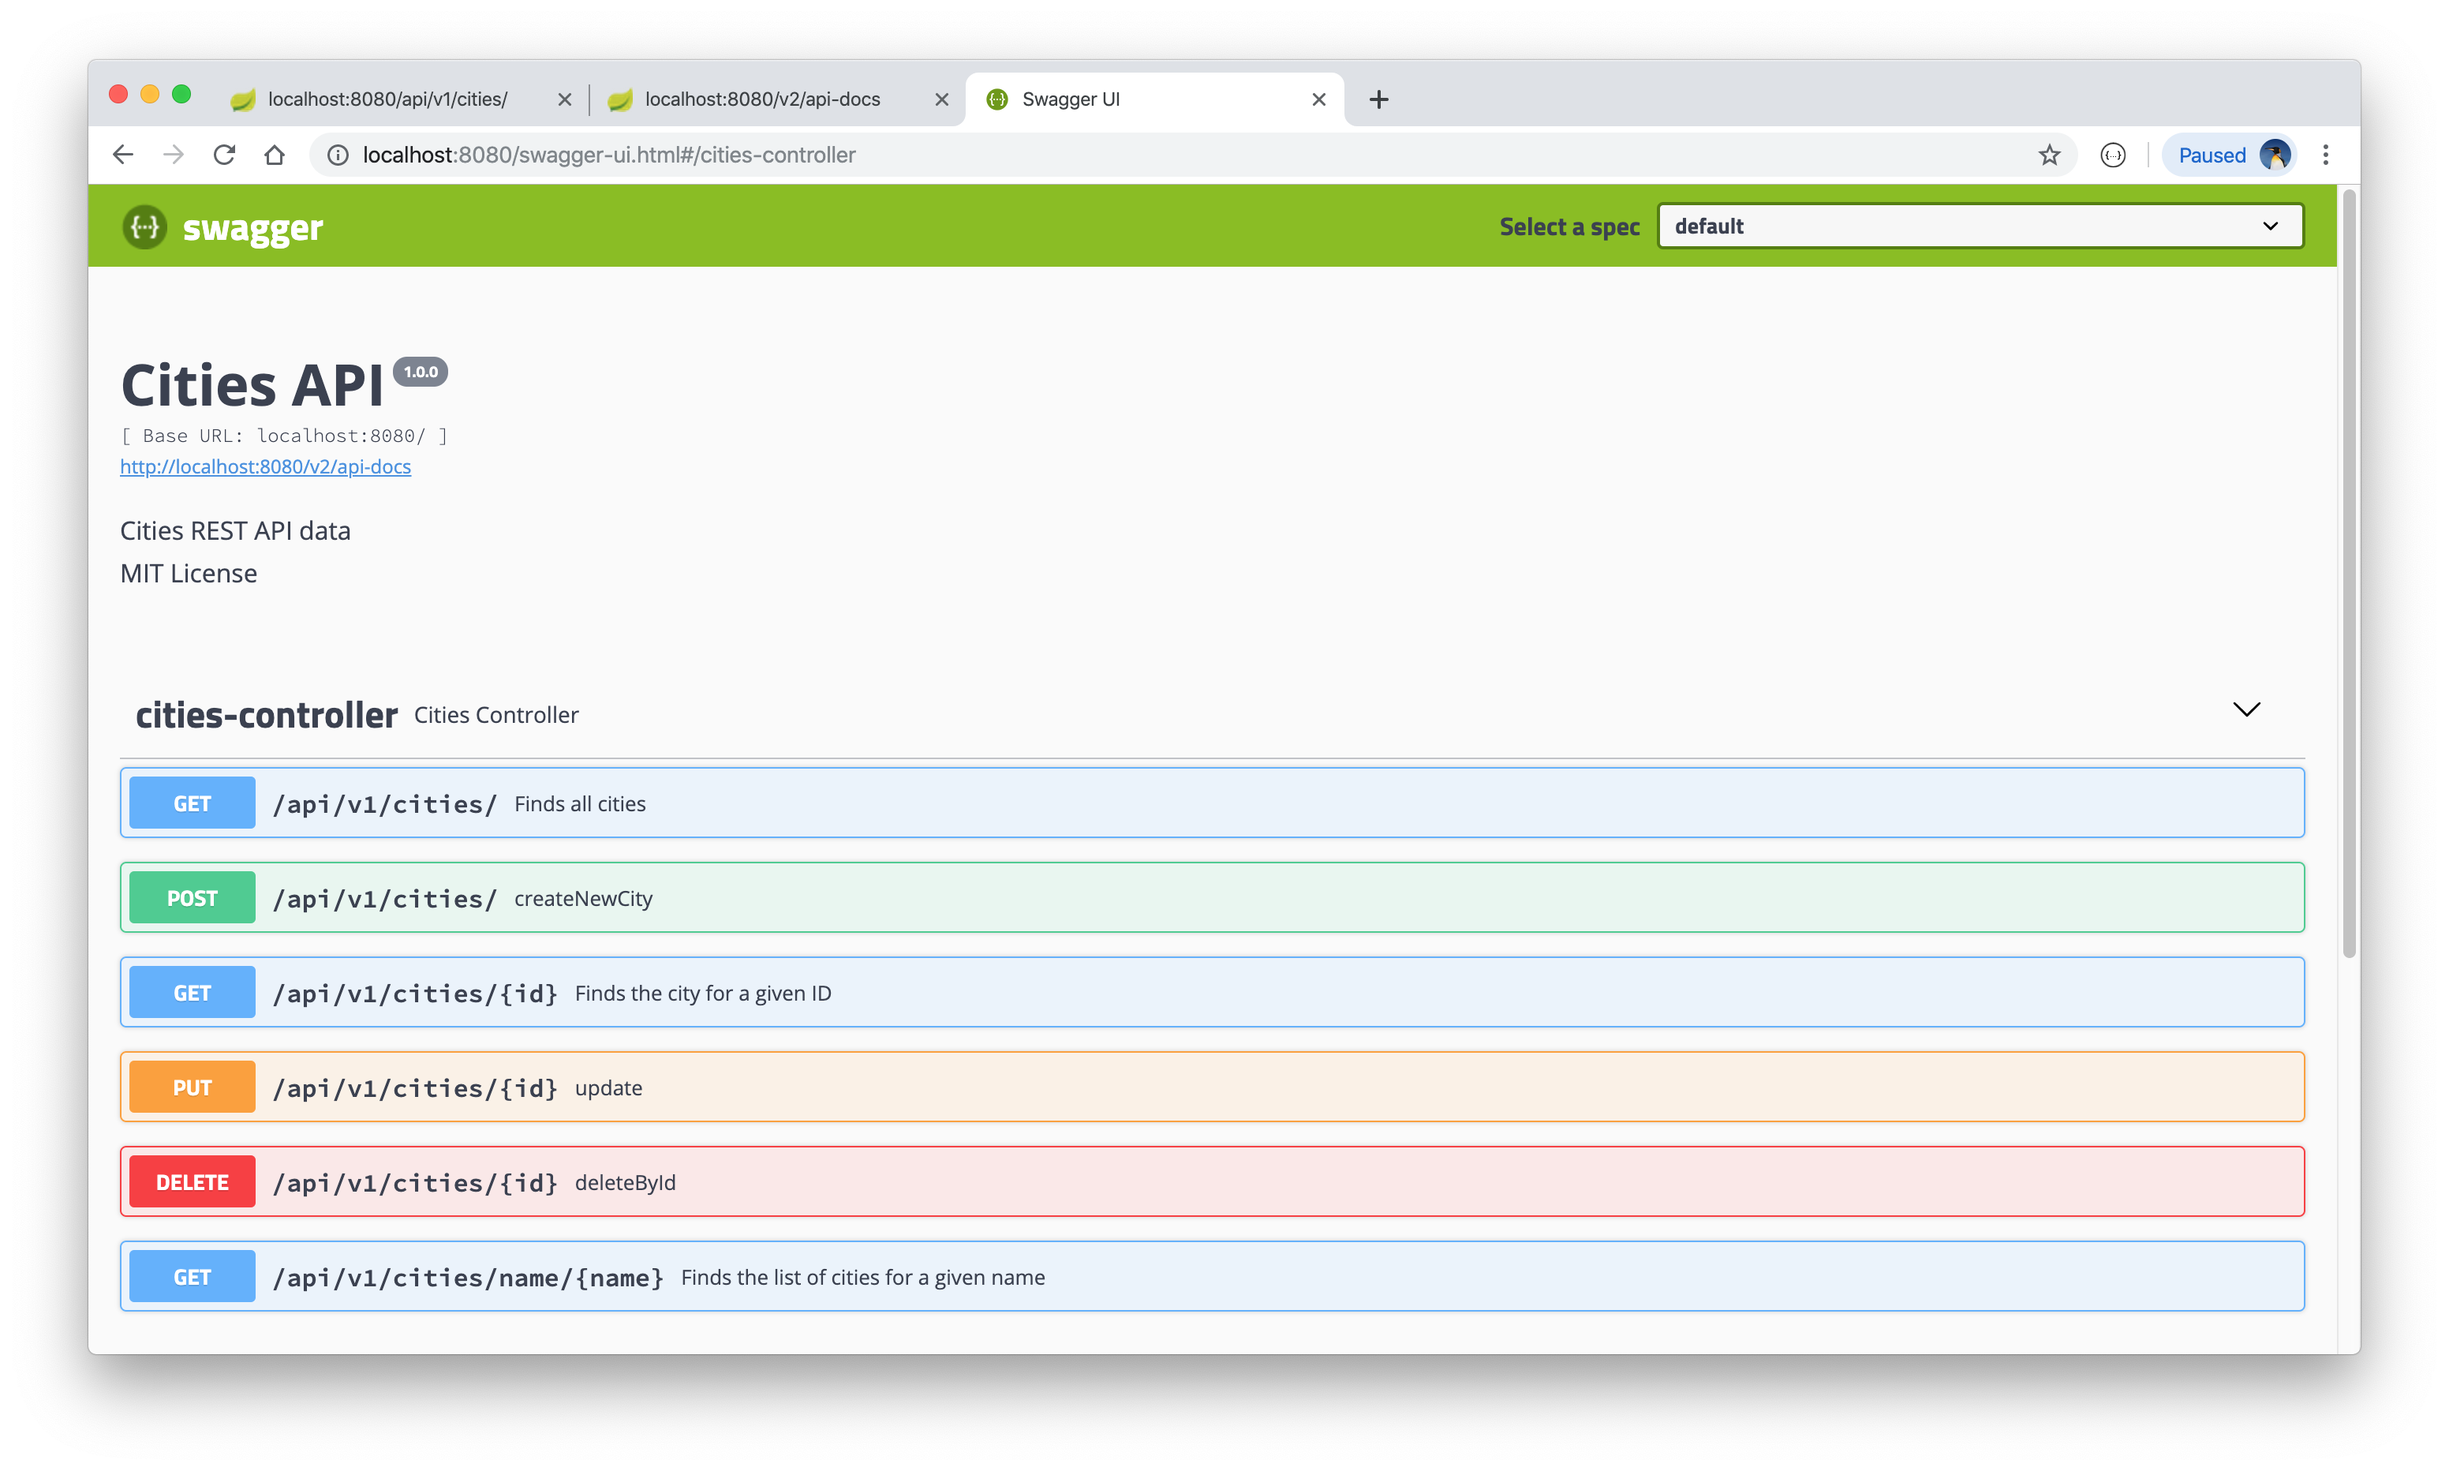
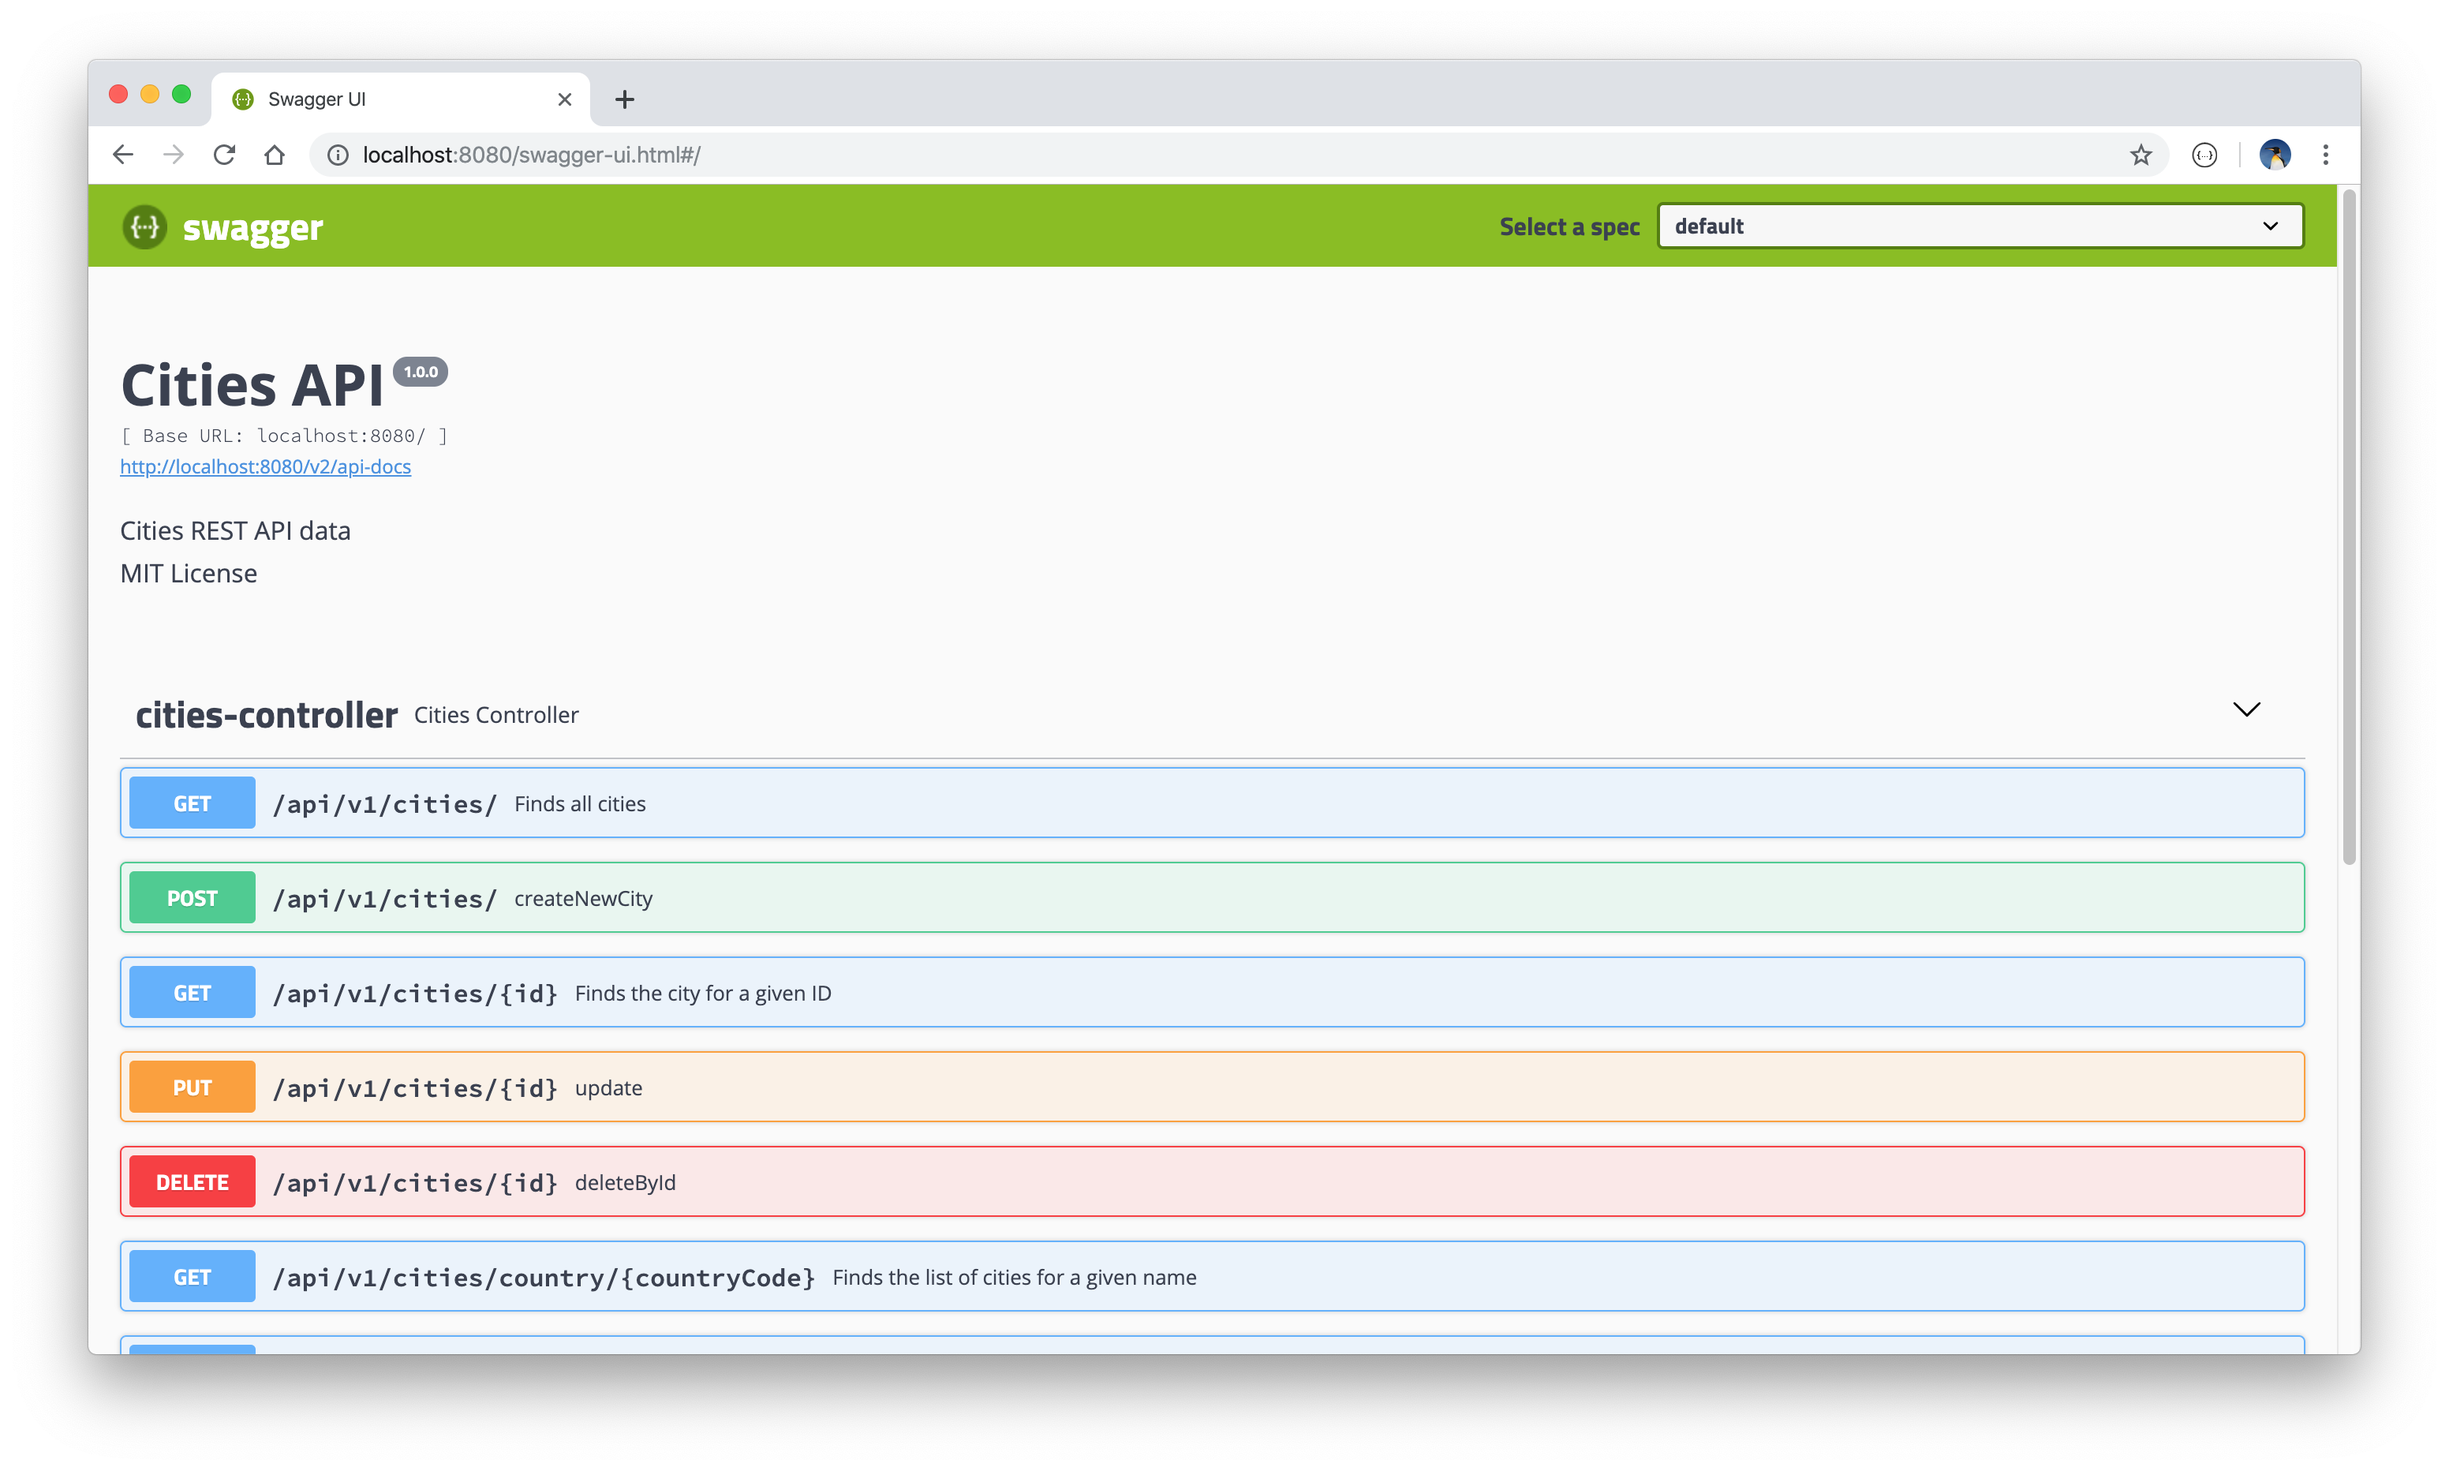
Additional GET called added

diff --git a/Cities API/src/main/java/com/cadebe/cities_api/controller/CitiesController.java b/Cities API/src/main/java/com/cadebe/cities_api/controller/CitiesController.java
@@ -59,8 +59,7 @@ public class CitiesController {
         UUID uuid = UUID.fromString(id);
         Optional<City> city = CITY_SERVICE.findById(uuid);
         if (city.isEmpty()) {
-            ErrorHandler<UUID> eh = new ErrorHandler<>();
-            eh.handelError(uuid);
+            handelError(uuid);
             return new ResponseEntity<>(generateErrorMessage("city.not.found") + ".", HttpStatus.NOT_FOUND);
         }
         return new ResponseEntity<>(city.get(), HttpStatus.OK);
@@ -72,8 +71,29 @@ public class CitiesController {
     public ResponseEntity<Object> findByName(@ApiParam(value = "Name value for city to be retrieved", required = true)
                                              @PathVariable("name") String name) {
         Optional<List<City>> city = CITY_SERVICE.findByName(name);
-        ErrorHandler<String> eh = new ErrorHandler<>();
-        eh.handelError(name);
+        handelError(name);
+        return city.<ResponseEntity<Object>>map(cities -> new ResponseEntity<>(cities, HttpStatus.OK)).orElseGet(() ->
+                new ResponseEntity<>(generateErrorMessage("city.not.found") + ".", HttpStatus.NOT_FOUND));
+    }
+
+    @RequestMapping(method = RequestMethod.GET, produces = MediaType.APPLICATION_JSON_VALUE, path = "country/{countryCode}")
+    @ExceptionHandler(value = CityNotFoundException.class)
+    @ApiOperation(value = "Finds the list of cities for a given country code", notes = "Returns a list of cities for a given country code", response = City.class)
+    public ResponseEntity<Object> findByCountryCode(@ApiParam(value = "Country name value for cities to be retrieved", required = true)
+                                                    @PathVariable("countryCode") String countryCode) {
+        Optional<List<City>> city = CITY_SERVICE.findByCountryCode(countryCode);
+        handelError(countryCode);
+        return city.<ResponseEntity<Object>>map(cities -> new ResponseEntity<>(cities, HttpStatus.OK)).orElseGet(() ->
+                new ResponseEntity<>(generateErrorMessage("city.not.found") + ".", HttpStatus.NOT_FOUND));
+    }
+
+    @RequestMapping(method = RequestMethod.GET, produces = MediaType.APPLICATION_JSON_VALUE, path = "populationSize/{size}")
+    @ExceptionHandler(value = CityNotFoundException.class)
+    @ApiOperation(value = "Finds the list of cities greater than a given parameter", notes = "Returns a list of cities greater than a given parameter", response = City.class)
+    public ResponseEntity<Object> findAllCitiesWithPopulationGreaterThanX(@ApiParam(value = "Population size value for cities to be retrieved", required = true)
+                                                                          @PathVariable("size") long size) {
+        Optional<List<City>> city = CITY_SERVICE.findAllCitiesWithPopulationGreaterThanX(size);
+        handelError(Long.toString(size));
         return city.<ResponseEntity<Object>>map(cities -> new ResponseEntity<>(cities, HttpStatus.OK)).orElseGet(() ->
                 new ResponseEntity<>(generateErrorMessage("city.not.found") + ".", HttpStatus.NOT_FOUND));
     }
@@ -84,8 +104,7 @@ public class CitiesController {
     public ResponseEntity<Object> update(@PathVariable("id") String id, @RequestBody City city) {
         UUID uuid = UUID.fromString(id);
         if (CITY_SERVICE.findById(uuid).isEmpty()) {
-            ErrorHandler<UUID> eh = new ErrorHandler<>();
-            eh.handelError(uuid);
+            handelError(uuid);
             return new ResponseEntity<>(generateErrorMessage("city.not.found") + ".", HttpStatus.NOT_FOUND);
         }
         try {
@@ -100,8 +119,7 @@ public class CitiesController {
     public ResponseEntity<Object> deleteById(@PathVariable("id") String id) {
         UUID uuid = UUID.fromString(id);
         if (CITY_SERVICE.findById(uuid).isEmpty()) {
-            ErrorHandler<UUID> eh = new ErrorHandler<>();
-            eh.handelError(uuid);
+            handelError(uuid);
             return new ResponseEntity<>(false, HttpStatus.NOT_FOUND);
         }
         CITY_SERVICE.deleteById(uuid);
@@ -112,9 +130,7 @@ public class CitiesController {
         return MESSAGE_SOURCE.getMessage(i18n, null, LocaleContextHolder.getLocale());
     }
 
-    private static class ErrorHandler<T> {
-        private void handelError(T uuid) {
-            log.error("Received id {} is not present and the database could not be updated", uuid);
-        }
+    private <T> void handelError(T uuid) {
+        log.error("Received id {} is not present and the database could not be updated", uuid);
     }
 }

diff --git a/Cities API/src/main/java/com/cadebe/cities_api/repository/CityJPA.java b/Cities API/src/main/java/com/cadebe/cities_api/repository/CityJPA.java
@@ -13,6 +13,10 @@ import java.util.UUID;
 @Repository
 public interface CityJPA extends CrudRepository<City, UUID> {
 
-    @Query(value = "SELECT * FROM cities WHERE name = ?1", nativeQuery = true)
     Optional<List<City>> findByName(@Param("name") String name);
+
+    Optional<List<City>> findByCountryCode(@Param("countryCode") String countryCode);
+
+    @Query(value = "SELECT * FROM cities WHERE population > ?1", nativeQuery = true)
+    Optional<List<City>> findAllCitiesWithPopulationGreaterThanX(long size);
 }

diff --git a/Cities API/src/main/java/com/cadebe/cities_api/repository/CityDaoImpl.java b/Cities API/src/main/java/com/cadebe/cities_api/repository/CityDaoImpl.java
@@ -39,7 +39,18 @@ public class CityDaoImpl implements CityDao {
     }
 
     @Override
+    public Optional<List<City>> findByCountryCode(String countryCode) {
+        return CITY_DAO.findByCountryCode(countryCode);
+    }
+
+    @Override
+    public Optional<List<City>> findAllCitiesWithPopulationGreaterThanX(long size) {
+        return CITY_DAO.findAllCitiesWithPopulationGreaterThanX(size);
+    }
+
+    @Override
     public City save(City city) {
+
         return CITY_DAO.save(city);
     }
 

diff --git a/Cities API/src/main/java/com/cadebe/cities_api/service/CityService.java b/Cities API/src/main/java/com/cadebe/cities_api/service/CityService.java
@@ -32,6 +32,14 @@ public class CityService {
         return this.CITY_DAO.findByName(name);
     }
 
+    public Optional<List<City>> findByCountryCode(String countryCode) {
+        return this.CITY_DAO.findByCountryCode(countryCode);
+    }
+
+    public Optional<List<City>> findAllCitiesWithPopulationGreaterThanX(long size) {
+        return this.CITY_DAO.findAllCitiesWithPopulationGreaterThanX(size);
+    }
+
     public City save(City city) {
         return this.CITY_DAO.save(city);
     }

diff --git a/Cities API/src/main/java/com/cadebe/cities_api/repository/CityDao.java b/Cities API/src/main/java/com/cadebe/cities_api/repository/CityDao.java
@@ -14,6 +14,10 @@ public interface CityDao {
 
     Optional<List<City>> findByName(String name);
 
+    Optional<List<City>> findByCountryCode(String countryCode);
+
+    Optional<List<City>> findAllCitiesWithPopulationGreaterThanX(long size);
+
     City save(City city);
 
     City update(City city);

diff --git a/Cities API/README.md b/Cities API/README.md
@@ -40,6 +40,8 @@ Build the project with the command `mvn clean install` and start the project ser
   * ```curl -i http://localhost:8080/api/v1/cities/```
   * ```curl -i http://localhost:8080/api/v1/cities/<id>```
   * ```curl -i http://localhost:8080/api/v1/cities/name/<cityName>```
+  * ```curl -i http://localhost:8080/api/v1/cities/country/<countryCode>```
+  * ```curl -i http://localhost:8080/api/v1/cities/population/<size>```
 
 
 * CREATE/ADD:
